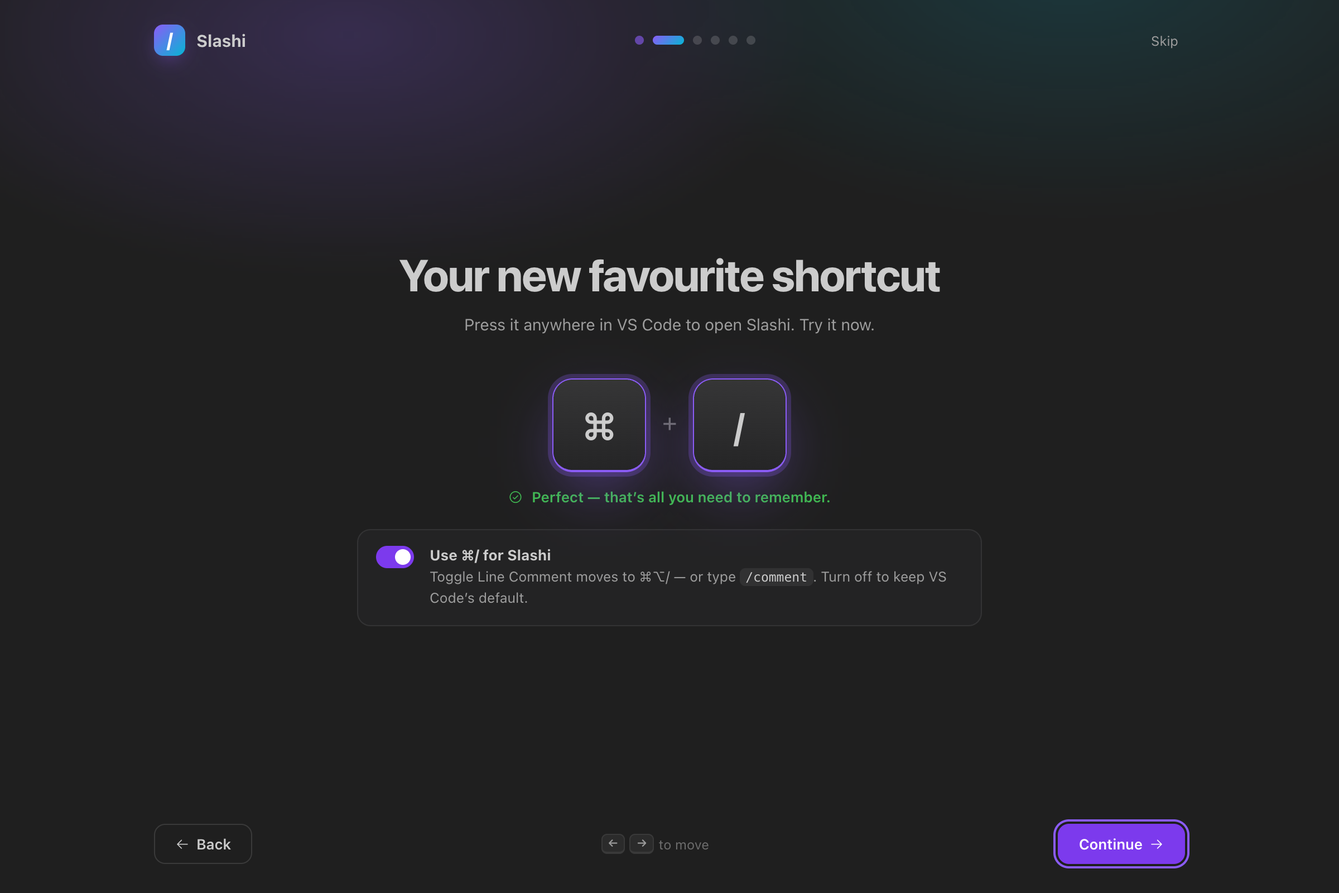
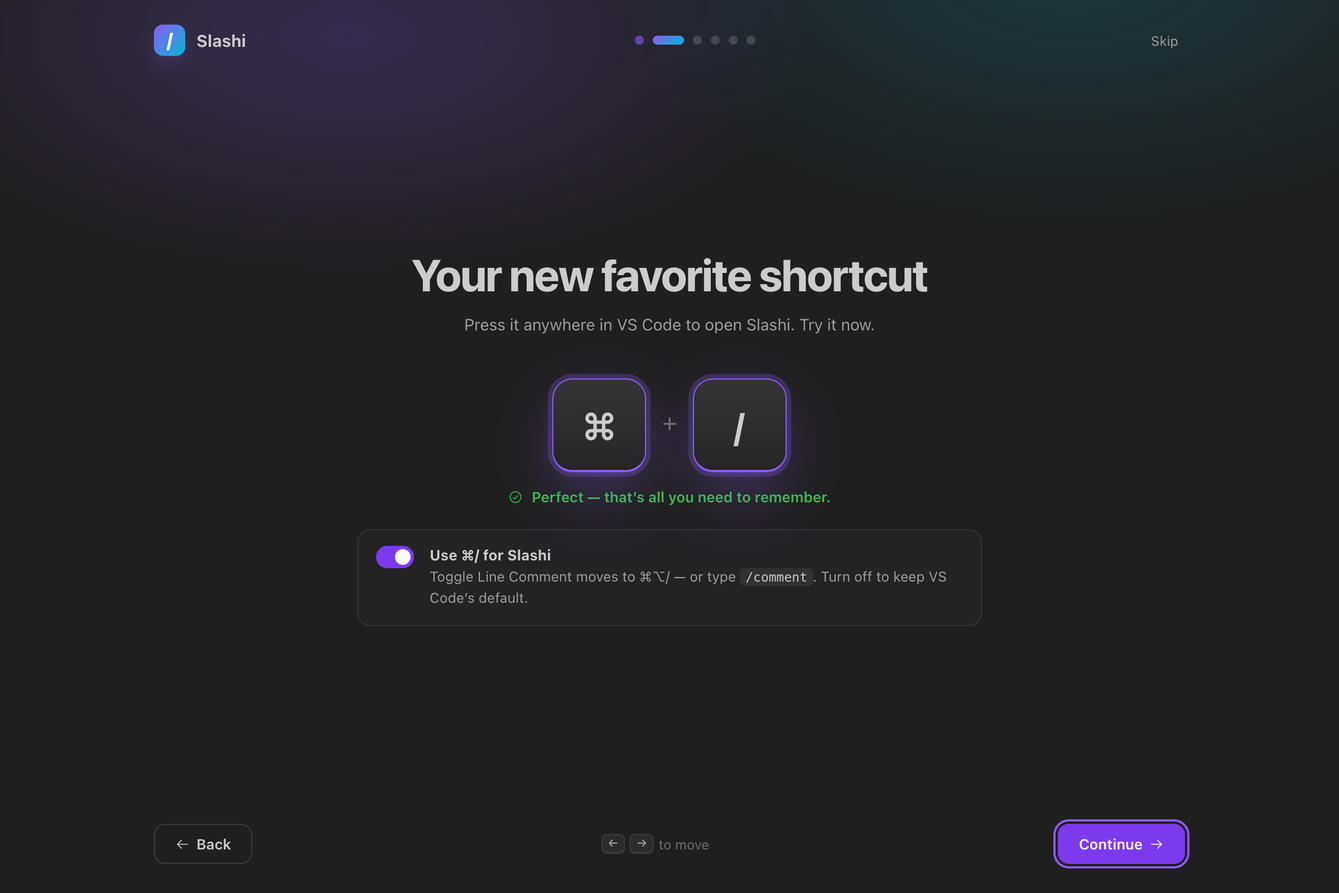
feat(ui): add motion polish and clearer copy (#15)
## Summary

**Studio fix.** Studio rebuilt the whole page on every state update.
Switches jumped instead of sliding, disabled cards never faded, and
keyboard focus was lost after each toggle. `render()` now updates the
existing page in place, and switches flip as soon as you click them.

**Motion**
- Pressing a button scales it to 0.97. This covers buttons, code-block
buttons, Studio's nav and onboarding cards.
- Copy buttons in the answer panel show "Copied" on the button for 1.2s.
- The Spotlight actions menu grows up from the ⌘K footer hint instead of
dropping from above.
- The answer toolbar keeps a fixed height, so swapping Stop for the
result actions no longer moves the thread.
- Spotlight opens with no animation, because it is a keyboard toggle
used many times a day.
- With reduced motion on, fades and color changes stay but movement is
removed. The spinner turns slowly instead of freezing.
- DESIGN.md and `.impeccable/design.json` describe the new rules.

**Copy**
- One API key prompt everywhere, titled with the backend's real name.
Studio's prompt used to show the raw ID, like "API key for anthropic".
- The stale-edit dialog says what may be overwritten. The "Applied"
message shows the right undo key for your platform.
- Problem counts use proper plurals. The pack export message now opens
the publishing guide instead of naming a repo path. Hidden results
explain how to show them again.
- "AI" replaces "LLM", "Refresh Search Results" replaces "Refresh
[…]

Changed region(s): [[0.2812, 0.2812, 0.7188, 0.3438]]

diff --git a/src/webview/studio.ts b/src/webview/studio.ts
@@ -48,9 +48,29 @@ let testing = false;
 const post = (message: unknown) => vscode.postMessage(message);
 const sw = (on: boolean, attrs: string) => `<button class="switch" role="switch" aria-checked="${on}" ${attrs}></button>`;
 
+// Patches the live DOM toward `to` instead of replacing it, so focus survives and switch/opacity transitions play.
+function morph(from: Node, to: Node): void {
+  const a = [...from.childNodes];
+  const b = [...to.childNodes];
+  if (a.length !== b.length) return (from as Element).replaceChildren(...b); // text nodes have no children, so lengths only differ on elements
+  a.forEach((node, i) => {
+    const next = b[i];
+    if (node.nodeName !== next.nodeName) return node.parentNode!.replaceChild(next, node);
+    if (node instanceof Element && next instanceof Element) {
+      for (const { name } of [...node.attributes]) if (!next.hasAttribute(name)) node.removeAttribute(name);
+      for (const { name, value } of [...next.attributes]) if (node.getAttribute(name) !== value) node.setAttribute(name, value);
+    } else if (node.nodeValue !== next.nodeValue) node.nodeValue = next.nodeValue;
+    morph(node, next);
+    // A field the user typed in ignores its value attribute, so sync the live value (unless they're still typing there).
+    const field = node instanceof HTMLInputElement || node instanceof HTMLTextAreaElement || node instanceof HTMLSelectElement;
+    if (field && node !== document.activeElement) node.value = (next as typeof node).value;
+  });
+}
+
 function render(): void {
   if (!state) return;
-  document.body.innerHTML = `<div class="layout">
+  const next = document.createElement('div');
+  next.innerHTML = `<div class="layout">
     <nav aria-label="Studio sections">
       <div class="brand"><div class="brand-mark">/</div><div><strong>Slashi Studio</strong><span>Make Slashi yours</span></div></div>
       ${TABS.map((t) => `<button data-tab="${t.id}" ${t.id === tab ? 'aria-current="page"' : ''}>${icon(t.icon)} ${t.title}</button>`).join('')}
@@ -59,6 +79,7 @@ function render(): void {
     </nav>
     <main>${page()}</main>
   </div>`;
+  morph(document.body, next);
 }
 
 function page(): string {
@@ -97,7 +118,7 @@ function providersPage(): string {
           ${
             p.features.length
               ? `<div class="chips">${p.features
-                  .map((f) => `<button class="chip" aria-pressed="${f.enabled}" ${p.enabled ? '' : 'disabled'} data-feature="${esc(p.id)}|${esc(f.id)}" title="${esc(f.description)}">${icon(f.enabled ? 'check' : 'minus')} ${esc(f.title)}</button>`)
+                  .map((f) => `<button class="chip" aria-pressed="${esc(String(f.enabled))}" ${p.enabled ? '' : 'disabled'} data-feature="${esc(p.id)}|${esc(f.id)}" title="${esc(f.description)}">${icon(f.enabled ? 'check' : 'minus')} ${esc(f.title)}</button>`)
                   .join('')}</div>`
               : ''
           }
@@ -123,7 +144,7 @@ function aiPage(): string {
         <span class="grow"></span>
         <button class="btn ghost" data-cmd="test" ${testing ? 'disabled' : ''}>${icon('lightning')} ${testing ? 'Testing…' : 'Test connection'}</button>
       </div>
-      ${test ? `<div class="test-result ${test.ok ? 'ok' : 'fail'}">${test.ok ? `${icon('check-circle')} ${esc(test.label ?? '')} replied in ${test.ms} ms: “${esc(test.text)}”` : `${icon('warning')} ${esc(test.text)}`}</div>` : ''}
+      ${test ? `<div class="test-result ${test.ok ? 'ok' : 'fail'}">${test.ok ? `${icon('check-circle')} ${esc(test.label ?? '')} replied in ${esc(String(test.ms))} ms: “${esc(test.text)}”` : `${icon('warning')} ${esc(test.text)}`}</div>` : ''}
     </div>
     <div class="panel">
       <h2>${icon('cpu')} Provider</h2>
@@ -141,7 +162,7 @@ function aiPage(): string {
         ${needsUrl ? `<label for="baseUrl">Server URL</label><input id="baseUrl" data-config="ai.baseUrl" value="${esc(ai.baseUrl)}" placeholder="${ai.provider === 'ollama' ? 'http://localhost:11434/v1' : 'http://localhost:1234/v1'}">` : ''}
         ${
           needsKey
-            ? `<label>API key</label><div class="row-actions"><button class="btn" data-key="${ai.provider}">${icon('key')} ${ai.keys[ai.provider] ? 'Replace key' : 'Add key'}</button>${ai.keys[ai.provider] ? `<button class="btn danger" data-clear="${ai.provider}">${icon('trash')} Remove</button>` : ''}</div>`
+            ? `<label>API key</label><div class="row-actions"><button class="btn" data-key="${esc(ai.provider)}">${icon('key')} ${ai.keys[ai.provider] ? 'Replace key' : 'Add key'}</button>${ai.keys[ai.provider] ? `<button class="btn danger" data-clear="${esc(ai.provider)}">${icon('trash')} Remove</button>` : ''}</div>`
             : ''
         }
         ${ai.provider === 'anthropic' ? `<label for="effort">Effort</label><select id="effort" data-config="ai.anthropicEffort">${['low', 'medium', 'high'].map((e) => `<option ${e === ai.effort ? 'selected' : ''}>${e}</option>`).join('')}</select>` : ''}
@@ -176,7 +197,7 @@ function commandsPage(): string {
       }
     </div>
     <div class="panel"><h2>${icon('package')} Installed packs</h2>
-      ${s.packs.length ? `<div class="list">${s.packs.map((p) => `<div class="item"><div class="text"><strong>${esc(p.name)}</strong><span>v${esc(p.version)} · ${p.commands} commands</span></div></div>`).join('')}</div>` : `<p class="muted">No packs installed. Browse the marketplace with <code>/market</code>.</p>`}
+      ${s.packs.length ? `<div class="list">${s.packs.map((p) => `<div class="item"><div class="text"><strong>${esc(p.name)}</strong><span>v${esc(p.version)} · ${esc(String(p.commands))} commands</span></div></div>`).join('')}</div>` : `<p class="muted">No packs installed. Browse the marketplace with <code>/market</code>.</p>`}
     </div>
   </div>`;
 }
@@ -257,7 +278,7 @@ function helpPage(): string {
       <div class="row-actions">
         <button class="btn" data-run="slashi.copyDiagnostics">${icon('clipboard-text')} Copy diagnostics</button>
         ${run('slashi.run', 'Show log', 'scroll', '/slashi-log')}
-        ${run('slashi.refresh', 'Refresh catalogues', 'arrows-clockwise')}
+        ${run('slashi.refresh', 'Refresh search results', 'arrows-clockwise')}
         <button class="btn ghost" data-tab="ai" data-cmd="test">${icon('plugs-connected')} Test AI connection</button>
       </div>
     </div>
@@ -313,12 +334,14 @@ document.addEventListener('click', (e) => {
   const el = (e.target as HTMLElement).closest<HTMLElement>('button');
   if (!el || !state) return;
   const d = el.dataset;
+  // Flip switches now so the thumb slides on click; the host's state echo then matches and morph() leaves it alone.
+  if (el.getAttribute('role') === 'switch') el.setAttribute('aria-checked', String(el.getAttribute('aria-checked') !== 'true'));
   if (d.tab) {
     tab = d.tab;
     vscode.setState({ tab });
     if (d.cmd === 'test') startTest();
     else render();
-  } else if (d.providerToggle) post({ type: 'toggleProvider', id: d.providerToggle, enabled: el.getAttribute('aria-checked') !== 'true' });
+  } else if (d.providerToggle) post({ type: 'toggleProvider', id: d.providerToggle, enabled: el.getAttribute('aria-checked') === 'true' });
   else if (d.feature) {
     const [provider, feature] = d.feature.split('|');
     post({ type: 'toggleFeature', provider, feature, enabled: el.getAttribute('aria-pressed') !== 'true' });
@@ -328,7 +351,7 @@ document.addEventListener('click', (e) => {
     test = undefined;
   } else if (d.key) post({ type: 'setKey', backend: d.key });
   else if (d.clear) post({ type: 'clearKey', backend: d.clear });
-  else if (d.bool) post({ type: 'setConfig', key: d.bool, value: el.getAttribute('aria-checked') !== 'true' });
+  else if (d.bool) post({ type: 'setConfig', key: d.bool, value: el.getAttribute('aria-checked') === 'true' });
   else if (d.style) post({ type: 'setConfig', key: 'popup.style', value: d.style });
   else if (d.run) post({ type: 'command', command: d.run, args: d.arg });
   else if (d.link) post({ type: 'openLink', link: d.link });

diff --git a/src/webview/onboarding.ts b/src/webview/onboarding.ts
@@ -67,7 +67,7 @@ function content(): string {
       return `<div class="hero">
           <div class="hero-mark" aria-hidden="true">/</div>
           <h1>Do anything in VS Code.<br><span class="grad">Just type /</span></h1>
-          <p class="lead">Files, settings, git, terminal, extensions, your project’s scripts and AI — one beautiful popup, never touch the mouse.</p>
+          <p class="lead">Files, settings, Git, terminal, extensions, scripts and AI in one keyboard-first popup.</p>
         </div>
         <div class="demo" aria-hidden="true">
           <div class="demo-input"><span class="demo-mark">/</span><span id="demo-text"></span><span class="caret"></span></div>
@@ -75,7 +75,7 @@ function content(): string {
         </div>`;
     case 'shortcut':
       return `<div class="center">
-          <h1>Your new favourite shortcut</h1>
+          <h1>Your new favorite shortcut</h1>
           <p class="lead">Press it anywhere in VS Code to open Slashi. Try it now.</p>
           <div class="keycaps${pressed ? ' pressed' : ''}">${slashKeys().map((k) => `<span class="cap">${k}</span>`).join('<span class="plus">+</span>')}</div>
           <p class="pressed-msg${pressed ? ' visible' : ''}">${icon('check-circle')} Perfect — that’s all you need to remember.</p>
@@ -87,7 +87,7 @@ function content(): string {
         </div>`;
     case 'providers':
       return `<div class="center wide">
-          <h1>Choose your superpowers</h1>
+          <h1>Choose what Slashi can do</h1>
           <p class="lead">Everything is on by default. Turn off what you don’t need — fine-tune features later in Studio.</p>
           <div class="providers">${s.providers
             .map(
@@ -115,13 +115,13 @@ function content(): string {
     case 'done':
       return `<div class="center wide">
           <h1>You’re all set ${icon('confetti')}</h1>
-          <p class="lead">A few moves that make Slashi fly:</p>
+          <p class="lead">Shortcuts worth knowing:</p>
           <div class="tips">
             ${tip(keys(...slashKeys()), 'Open Slashi from anywhere')}
             ${tip(keys('Tab'), 'Complete a command, then type its arguments')}
             ${tip(`${keys('⇧', '↵')}`, 'Actions: rename, delete, copy path, hide…')}
             ${tip(keys(mac() ? '⌘' : 'Ctrl', '↵'), 'Hand what you typed to AI')}
-            ${tip('<code>/f</code>', 'Files & folders with full CRUD')}
+            ${tip('<code>/f</code>', 'Create, rename, move and delete files')}
             ${tip('<code>/p</code>', 'Your project’s scripts & tools')}
             ${tip('<code>/do</code>', 'Describe a task in plain English')}
             ${tip('<code>/market</code>', 'Install community action packs')}

diff --git a/src/providers/custom.ts b/src/providers/custom.ts
@@ -1,5 +1,6 @@
 import * as vscode from 'vscode';
 import { get, isFeatureEnabled, updateGlobal } from '../config';
+import { HELP_LINKS } from '../data/links';
 import { NAME_PATTERN, PACK_ID_PATTERN, validateCommands, type CustomCommandDef, type PackDef, type StepDef } from '../core/commandSchema';
 import { pickIcon } from '../core/icons';
 import { parseJsonc } from '../core/text';
@@ -146,7 +147,7 @@ export class CustomProvider implements SlashProvider {
     errors.forEach((e) => this.services.log.warn(e));
     if (this.warned.has(key)) return;
     this.warned.add(key);
-    void vscode.window.showWarningMessage(`Slashi: ${errors.length} problem(s) in your custom commands. ${errors[0]}`, 'Show Log').then((c) => c && this.services.log.show());
+    void vscode.window.showWarningMessage(`Slashi: ${errors.length === 1 ? '1 problem' : `${errors.length} problems`} in your custom commands. ${errors[0]}`, 'Show Log').then((c) => c && this.services.log.show());
   }
 
   private builtins(): SlashItem[] {
@@ -340,7 +341,7 @@ export async function editTeamCommands(): Promise<void> {
 export async function exportPack(): Promise<void> {
   const { commands } = validateCommands(get('customCommands', []));
   if (!commands.length) {
-    const choice = await vscode.window.showInformationMessage('You have no custom commands yet.', 'Create One');
+    const choice = await vscode.window.showInformationMessage('No custom commands to export yet.', 'Create Command');
     if (choice) await vscode.commands.executeCommand('slashi.newCommand');
     return;
   }
@@ -363,5 +364,7 @@ export async function exportPack(): Promise<void> {
   };
   const doc = await vscode.workspace.openTextDocument({ language: 'json', content: `${JSON.stringify(pack, null, 2)}\n` });
   await vscode.window.showTextDocument(doc);
-  void vscode.window.showInformationMessage(`Save it as ${id}.slashi-pack.json. Share the file, install it with “Slashi: Install Action Pack”, or publish it to the marketplace (see docs/BUILDING_ACTIONS.md).`);
+  void vscode.window
+    .showInformationMessage(`Save this as ${id}.slashi-pack.json. Share the file, or install it with “Slashi: Install Action Pack from URL or File…”.`, 'Publishing Guide')
+    .then((choice) => choice && vscode.env.openExternal(vscode.Uri.parse(HELP_LINKS.packs)));
 }

diff --git a/src/webview/styles/answer.css b/src/webview/styles/answer.css
@@ -89,7 +89,9 @@ main { flex: 1; overflow-y: auto; padding: 18px 18px 8px; scroll-behavior: smoot
   color: var(--muted);
   font-size: 11px;
   cursor: pointer;
+  transition: background 120ms var(--ease), color 120ms var(--ease), transform 120ms var(--ease);
 }
+.code .bar button:active { transform: scale(0.97); }
 .code .bar button:hover { background: color-mix(in srgb, var(--fg) 8%, transparent); color: var(--fg); }
 .code pre { margin: 0; padding: 12px 14px; overflow-x: auto; }
 .code pre code { padding: 0; background: none; font-size: 12.5px; line-height: 1.55; }
@@ -107,6 +109,10 @@ main { flex: 1; overflow-y: auto; padding: 18px 18px 8px; scroll-behavior: smoot
 }
 @keyframes blink { 50% { opacity: 0; } }
 
+/* Copy → Copied label crossfade; blur hides the two labels overlapping. */
+.swap { animation: swap 160ms var(--ease); }
+@keyframes swap { from { opacity: 0.3; filter: blur(2px); } }
+
 .error {
   padding: 10px 12px;
   border-radius: var(--radius-md);
@@ -121,8 +127,13 @@ main { flex: 1; overflow-y: auto; padding: 18px 18px 8px; scroll-behavior: smoot
   align-items: center;
   gap: 8px;
   max-width: 860px;
+  min-height: 36px; /* reserved, so swapping Stop for the actions doesn't move the thread */
   margin: 0 auto;
   padding: 8px 18px 0;
+}
+.toolbar > * {
+  transition: opacity 140ms var(--ease), transform 140ms var(--ease), background 120ms var(--ease);
+  @starting-style { opacity: 0; transform: translateY(4px); }
 }
 .toolbar .hint { color: var(--faint); font-size: 11.5px; display: inline-flex; gap: 5px; align-items: center; }
 .toolbar .grow { flex: 1; }

diff --git a/src/webview/answer.ts b/src/webview/answer.ts
@@ -176,6 +176,7 @@ document.addEventListener('click', (e) => {
   const target = (e.target as HTMLElement).closest<HTMLElement>('button');
   if (!target) return;
   const block = (attr: string) => codeBlocks[Number(target.getAttribute(attr))];
+  if (target.hasAttribute('data-copy') || target.id === 'copy') copied(target);
   if (target.hasAttribute('data-copy')) vscode.postMessage({ type: 'copy', text: block('data-copy').code });
   else if (target.hasAttribute('data-insert')) vscode.postMessage({ type: 'insert', text: block('data-insert').code });
   else if (target.hasAttribute('data-file')) vscode.postMessage({ type: 'newFile', text: block('data-file').code, language: block('data-file').lang });
@@ -185,6 +186,24 @@ document.addEventListener('click', (e) => {
   else if (target.id === 'stop') vscode.postMessage({ type: 'stop' });
   else if (target.id === 'send') send();
 });
+
+// Confirms the copy on the button itself, then restores the label.
+function copied(button: HTMLElement): void {
+  const label = button.dataset.label ?? button.innerHTML;
+  button.dataset.label = label;
+  const swap = (html: string) => {
+    button.innerHTML = html;
+    button.classList.remove('swap');
+    void button.offsetWidth; // restart the swap animation
+    button.classList.add('swap');
+  };
+  swap(`${icon('check')} Copied`);
+  window.clearTimeout(Number(button.dataset.timer));
+  button.dataset.timer = String(window.setTimeout(() => {
+    swap(label);
+    delete button.dataset.label;
+  }, 1200));
+}
 
 function send(): void {
   const text = follow.value.trim();

diff --git a/src/ui/answer.ts b/src/ui/answer.ts
@@ -146,7 +146,7 @@ export class AnswerPanel implements vscode.Disposable {
     if (!this.target) return this.insertAtCursor(text);
     const doc = await vscode.workspace.openTextDocument(this.target.uri);
     if (doc.version !== this.target.version) {
-      const choice = await vscode.window.showWarningMessage('The file changed since the AI started. Apply anyway?', { modal: true }, 'Apply');
+      const choice = await vscode.window.showWarningMessage('This file changed after the AI started writing. Apply the change anyway?', { modal: true, detail: 'Edits you made since then may be overwritten.' }, 'Apply Anyway');
       if (!choice) return;
     }
     const edit = new vscode.WorkspaceEdit();
@@ -157,7 +157,7 @@ export class AnswerPanel implements vscode.Disposable {
     editor.selection = new vscode.Selection(this.target.range.start, end);
     editor.revealRange(editor.selection, vscode.TextEditorRevealType.InCenterIfOutsideViewport);
     this.target = { uri: doc.uri, range: new vscode.Range(this.target.range.start, end), version: doc.version };
-    void vscode.window.setStatusBarMessage('$(check) Applied — undo with Ctrl/Cmd+Z', 4000);
+    void vscode.window.setStatusBarMessage(`$(check) Applied. Press ${process.platform === 'darwin' ? '⌘Z' : 'Ctrl+Z'} to undo.`, 4000);
   }
 
   private async insertAtCursor(text: string): Promise<void> {

diff --git a/src/providers/naturalLanguage.ts b/src/providers/naturalLanguage.ts
@@ -19,7 +19,7 @@ const OS_NAMES: Record<string, string> = { darwin: 'macOS', win32: 'Windows', li
 export class NaturalLanguageProvider implements SlashProvider {
   readonly id = 'naturalLanguage' as const;
   readonly title = 'Natural Language';
-  readonly description = 'Describe a task in plain English; the LLM picks the right actions and asks before running them.';
+  readonly description = 'Describe a task in plain English, and AI picks the right actions and asks before running them.';
   readonly icon = 'magic-wand';
   readonly prefix = 'do';
   readonly placeholder = 'Describe what you want to do…';
@@ -104,8 +104,8 @@ export async function doWithAi(services: Services, task: string, snapshot: Edito
   const reachesShell = plan.steps.some((s) => stepReachesShell(s, (id) => byId.get(id)?.providerId));
   if (get('ai.confirmBeforeRun', true) || reachesShell) {
     const detail = plan.steps.map((s, i) => `${i + 1}. ${describe(s)}${s.why ? `  (${s.why})` : ''}`).join('\n');
-    const choice = await vscode.window.showInformationMessage(plan.reply || 'Run this plan?', { modal: true, detail }, 'Run');
-    if (choice !== 'Run') return;
+    const choice = await vscode.window.showInformationMessage(plan.reply || 'Run this plan?', { modal: true, detail }, 'Run Plan');
+    if (choice !== 'Run Plan') return;
   }
 
   for (const step of plan.steps) {

diff --git a/src/webview/styles/base.css b/src/webview/styles/base.css
@@ -160,7 +160,7 @@ kbd {
   transition: background 120ms var(--ease), transform 120ms var(--ease);
 }
 .btn:hover { background: var(--button-hover); }
-.btn:active { transform: translateY(1px); }
+.btn:active { transform: scale(0.97); }
 .btn:focus-visible { outline: 2px solid var(--accent); outline-offset: 2px; }
 .btn.ghost { background: transparent; color: var(--fg); border-color: var(--border); }
 .btn.ghost:hover { background: color-mix(in srgb, var(--fg) 7%, transparent); }
@@ -203,6 +203,7 @@ body.vscode-high-contrast-light .switch[aria-checked='true'] { background: var(-
 ::-webkit-scrollbar-thumb { background: var(--vscode-scrollbarSlider-background, rgb(128 128 128 / 0.3)); border-radius: var(--radius-md); border: 3px solid transparent; background-clip: content-box; }
 ::-webkit-scrollbar-thumb:hover { background-color: var(--vscode-scrollbarSlider-hoverBackground, rgb(128 128 128 / 0.5)); }
 
+/* Reduced motion keeps fades and color changes but drops movement; the spinner slows down instead of stopping (spotlight.css). */
 @media (prefers-reduced-motion: reduce) {
-  *, *::before, *::after { animation: none !important; transition: none !important; }
+  *, *::before, *::after { animation: none !important; transition-property: opacity, color, background-color, border-color !important; }
 }

diff --git a/src/webview/styles/spotlight.css b/src/webview/styles/spotlight.css
@@ -26,14 +26,10 @@ body {
   background: color-mix(in srgb, var(--surface) 94%, transparent);
   box-shadow: var(--shadow);
   backdrop-filter: blur(18px) saturate(140%);
-  animation: pop 140ms var(--ease);
   align-self: flex-start;
 }
 
-@keyframes pop {
-  from { opacity: 0; transform: translateY(-6px) scale(0.985); }
-  to { opacity: 1; transform: none; }
-}
+/* No open animation: Spotlight is a keyboard toggle used many times a day. */
 
 /* Header */
 .search {
@@ -83,6 +79,7 @@ body {
 }
 .spinner.visible { visibility: visible; }
 @keyframes spin { to { transform: rotate(360deg); } }
+@media (prefers-reduced-motion: reduce) { .spinner { animation: spin 1.5s linear infinite !important; } }
 
 /* Results */
 .results {
@@ -198,8 +195,10 @@ body.vscode-high-contrast-light .row.active { outline: 1px dashed var(--vscode-c
   border: 1px solid var(--border);
   background: var(--surface);
   box-shadow: var(--shadow);
-  animation: pop 110ms var(--ease);
+  transform-origin: bottom right; /* grows out of the ⌘K hint in the footer */
+  animation: menu-in 120ms var(--ease);
 }
+@keyframes menu-in { from { opacity: 0; transform: translateY(4px) scale(0.97); } }
 .actions[hidden] { display: none; }
 .actions .head {
   padding: 6px 10px 8px;

diff --git a/src/extension.ts b/src/extension.ts
@@ -140,7 +140,7 @@ export function activate(context: vscode.ExtensionContext): SlashiApi {
       { title: 'Which provider is the key for?' },
     );
     if (!backend) return;
-    const key = await vscode.window.showInputBox({ title: `${backend.label} API key`, password: true, ignoreFocusOut: true, prompt: 'Stored in VS Code Secret Storage, never in settings files.' });
+    const key = await vscode.window.showInputBox({ title: `${backend.label} API key`, password: true, ignoreFocusOut: true, prompt: 'Stored in VS Code Secret Storage, never in your settings files.' });
     if (!key) return;
     await services.ai.setKey(backend.value, key);
     if (get('ai.provider', 'auto') === 'auto' && backend.value !== 'openaiCompatible') await updateGlobal('ai.provider', backend.value);
@@ -174,7 +174,7 @@ export function activate(context: vscode.ExtensionContext): SlashiApi {
     registry.invalidate();
     await marketplace.refresh(true);
     await registry.warm();
-    void vscode.window.setStatusBarMessage('$(check) Slashi catalogues refreshed', 2500);
+    void vscode.window.setStatusBarMessage('$(check) Slashi search results refreshed', 2500);
   });
   command('slashi.inlineRun', async (id: string) => {
     const item = registry.find(id);

diff --git a/src/ui/onboarding.ts b/src/ui/onboarding.ts
@@ -1,7 +1,7 @@
 import * as vscode from 'vscode';
 import { get, isProviderEnabled, shortcutLabel, updateGlobal } from '../config';
 import type { ProviderId } from '../core/protocol';
-import type { BackendId, ModelInfo } from '../llm/types';
+import { BACKEND_LABELS, type BackendId, type ModelInfo } from '../llm/types';
 import type { Services } from '../services/services';
 import { panelIcon, webviewHtml, webviewOptions } from './html';
 
@@ -88,7 +88,7 @@ export class Onboarding implements vscode.Disposable {
         await this.pushState();
         break;
       case 'setKey': {
-        const key = await vscode.window.showInputBox({ title: `${m.backend === 'anthropic' ? 'Anthropic' : 'OpenAI'} API key`, password: true, ignoreFocusOut: true, prompt: 'Stored in VS Code Secret Storage — never in settings files.' });
+        const key = await vscode.window.showInputBox({ title: `${BACKEND_LABELS[m.backend]} API key`, password: true, ignoreFocusOut: true, prompt: 'Stored in VS Code Secret Storage, never in your settings files.' });
         if (key) {
           await services.ai.setKey(m.backend, key);
           await updateGlobal('ai.provider', m.backend);

diff --git a/src/ui/studio.ts b/src/ui/studio.ts
@@ -2,7 +2,7 @@ import * as vscode from 'vscode';
 import { get, isFeatureEnabled, isProviderEnabled, setFeatureEnabled, updateGlobal } from '../config';
 import type { ProviderId } from '../core/protocol';
 import { HELP_LINKS, type HelpLink } from '../data/links';
-import type { BackendId, ModelInfo } from '../llm/types';
+import { BACKEND_LABELS, type BackendId, type ModelInfo } from '../llm/types';
 import type { Services } from '../services/services';
 import { panelIcon, webviewHtml, webviewOptions } from './html';
 
@@ -83,7 +83,7 @@ export class Studio implements vscode.Disposable {
         }
         break;
       case 'setKey': {
-        const key = await vscode.window.showInputBox({ title: `API key for ${m.backend}`, password: true, ignoreFocusOut: true, prompt: 'Stored securely in VS Code Secret Storage — never in settings.' });
+        const key = await vscode.window.showInputBox({ title: `${BACKEND_LABELS[m.backend]} API key`, password: true, ignoreFocusOut: true, prompt: 'Stored in VS Code Secret Storage, never in your settings files.' });
         if (key) {
           await ai.setKey(m.backend, key);
           void this.loadModels();
